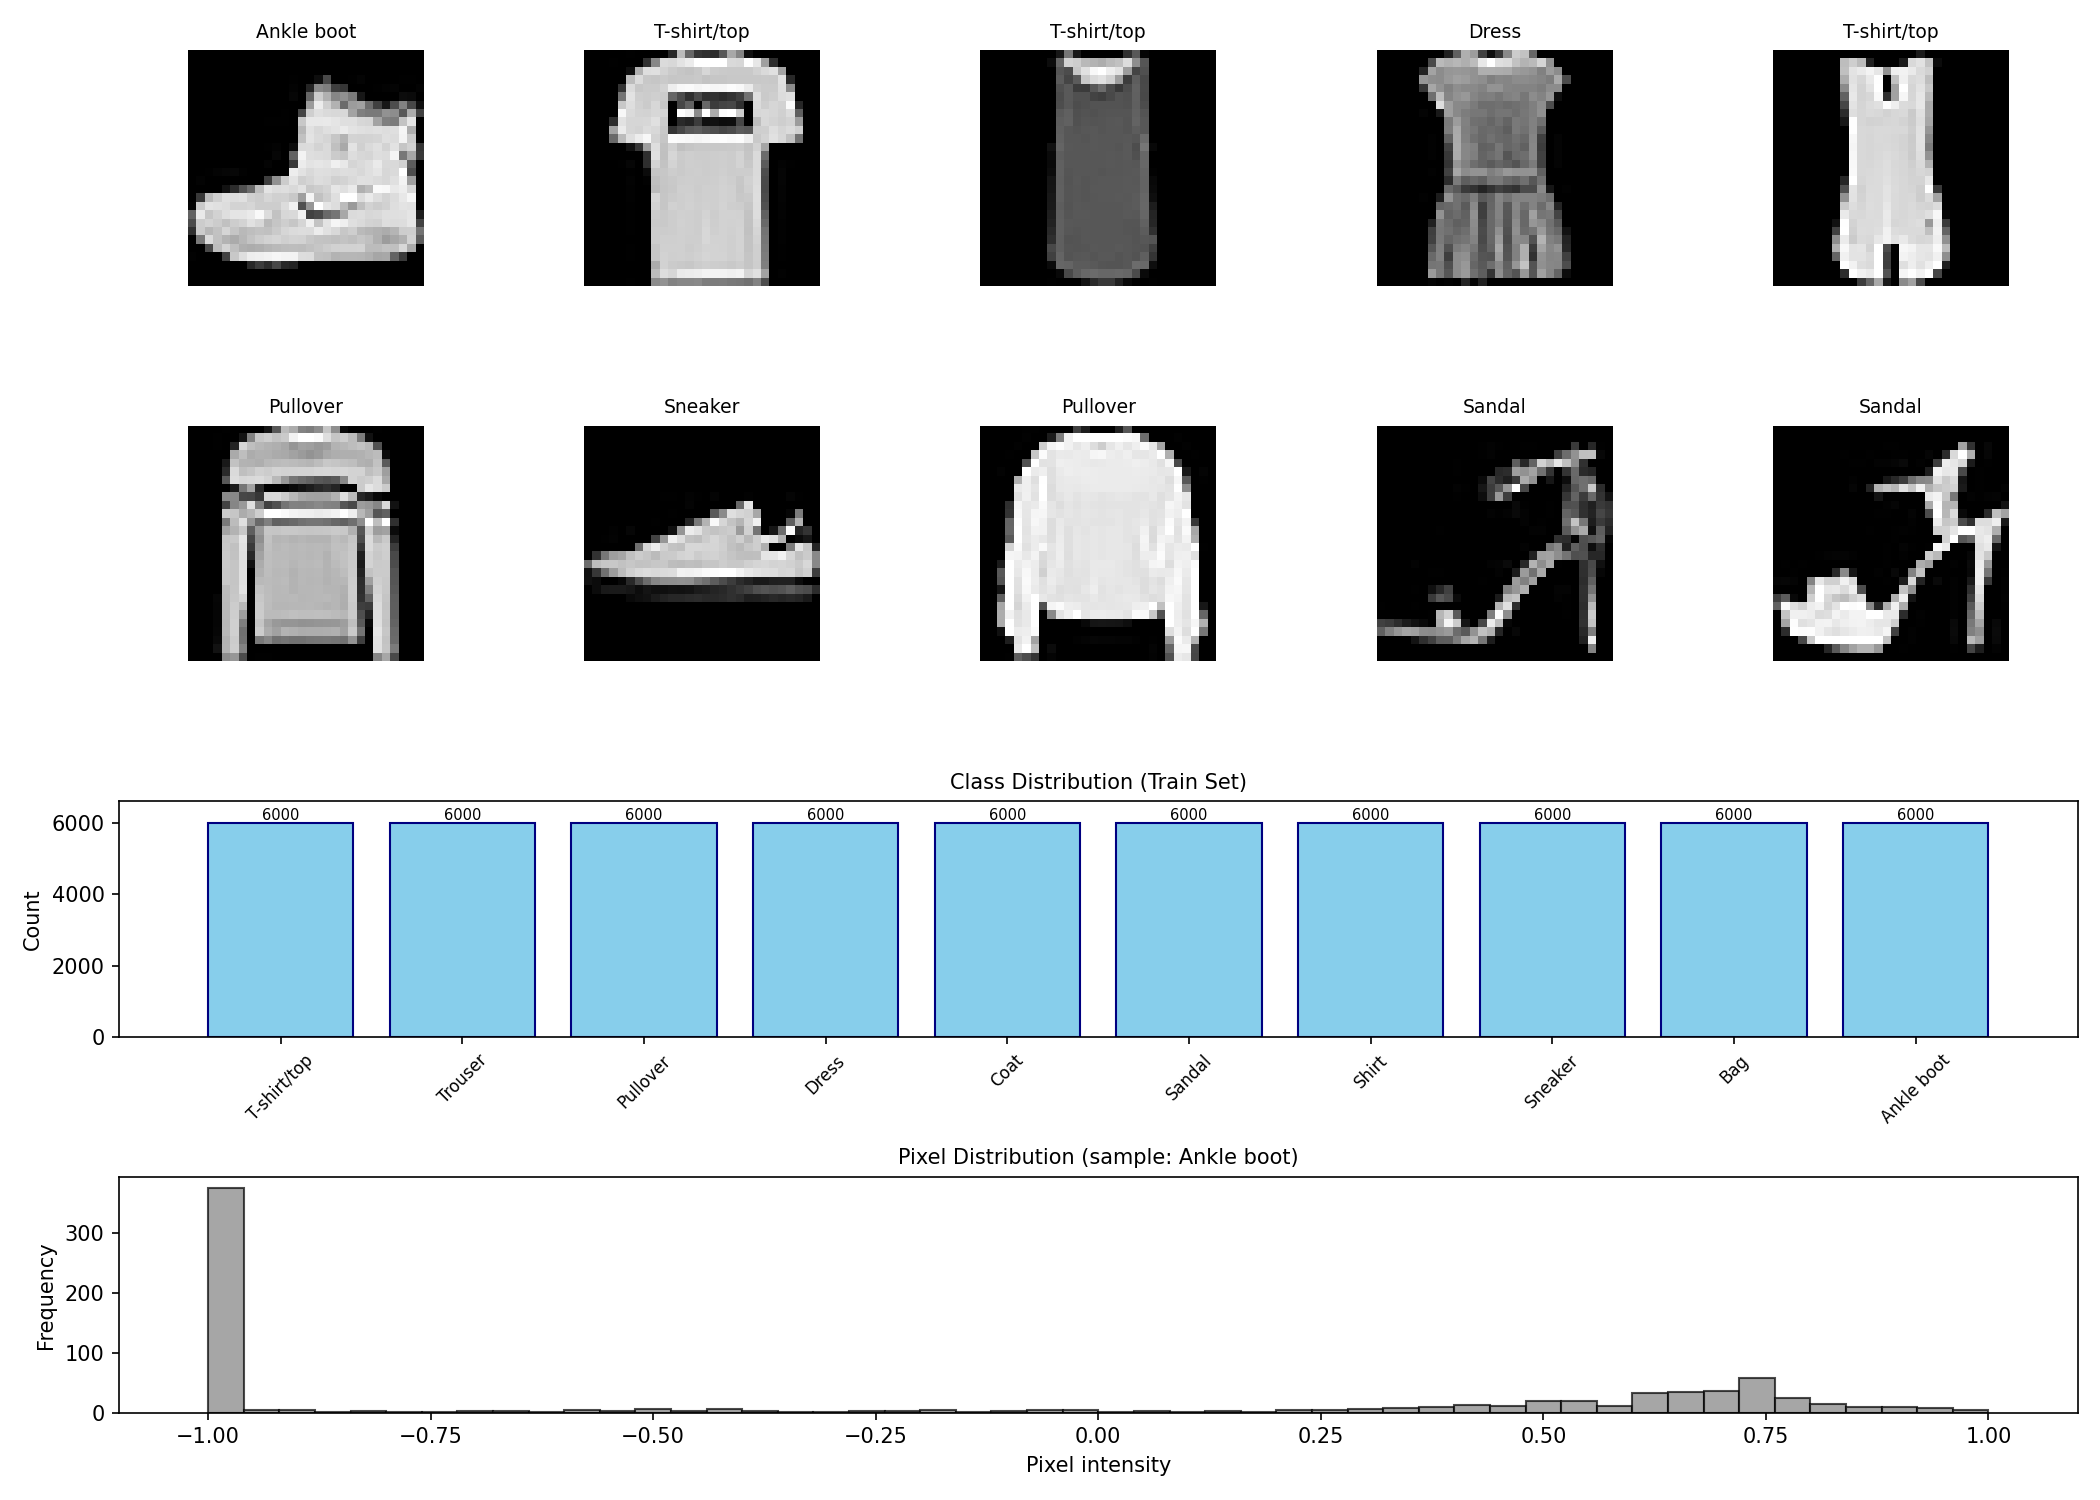
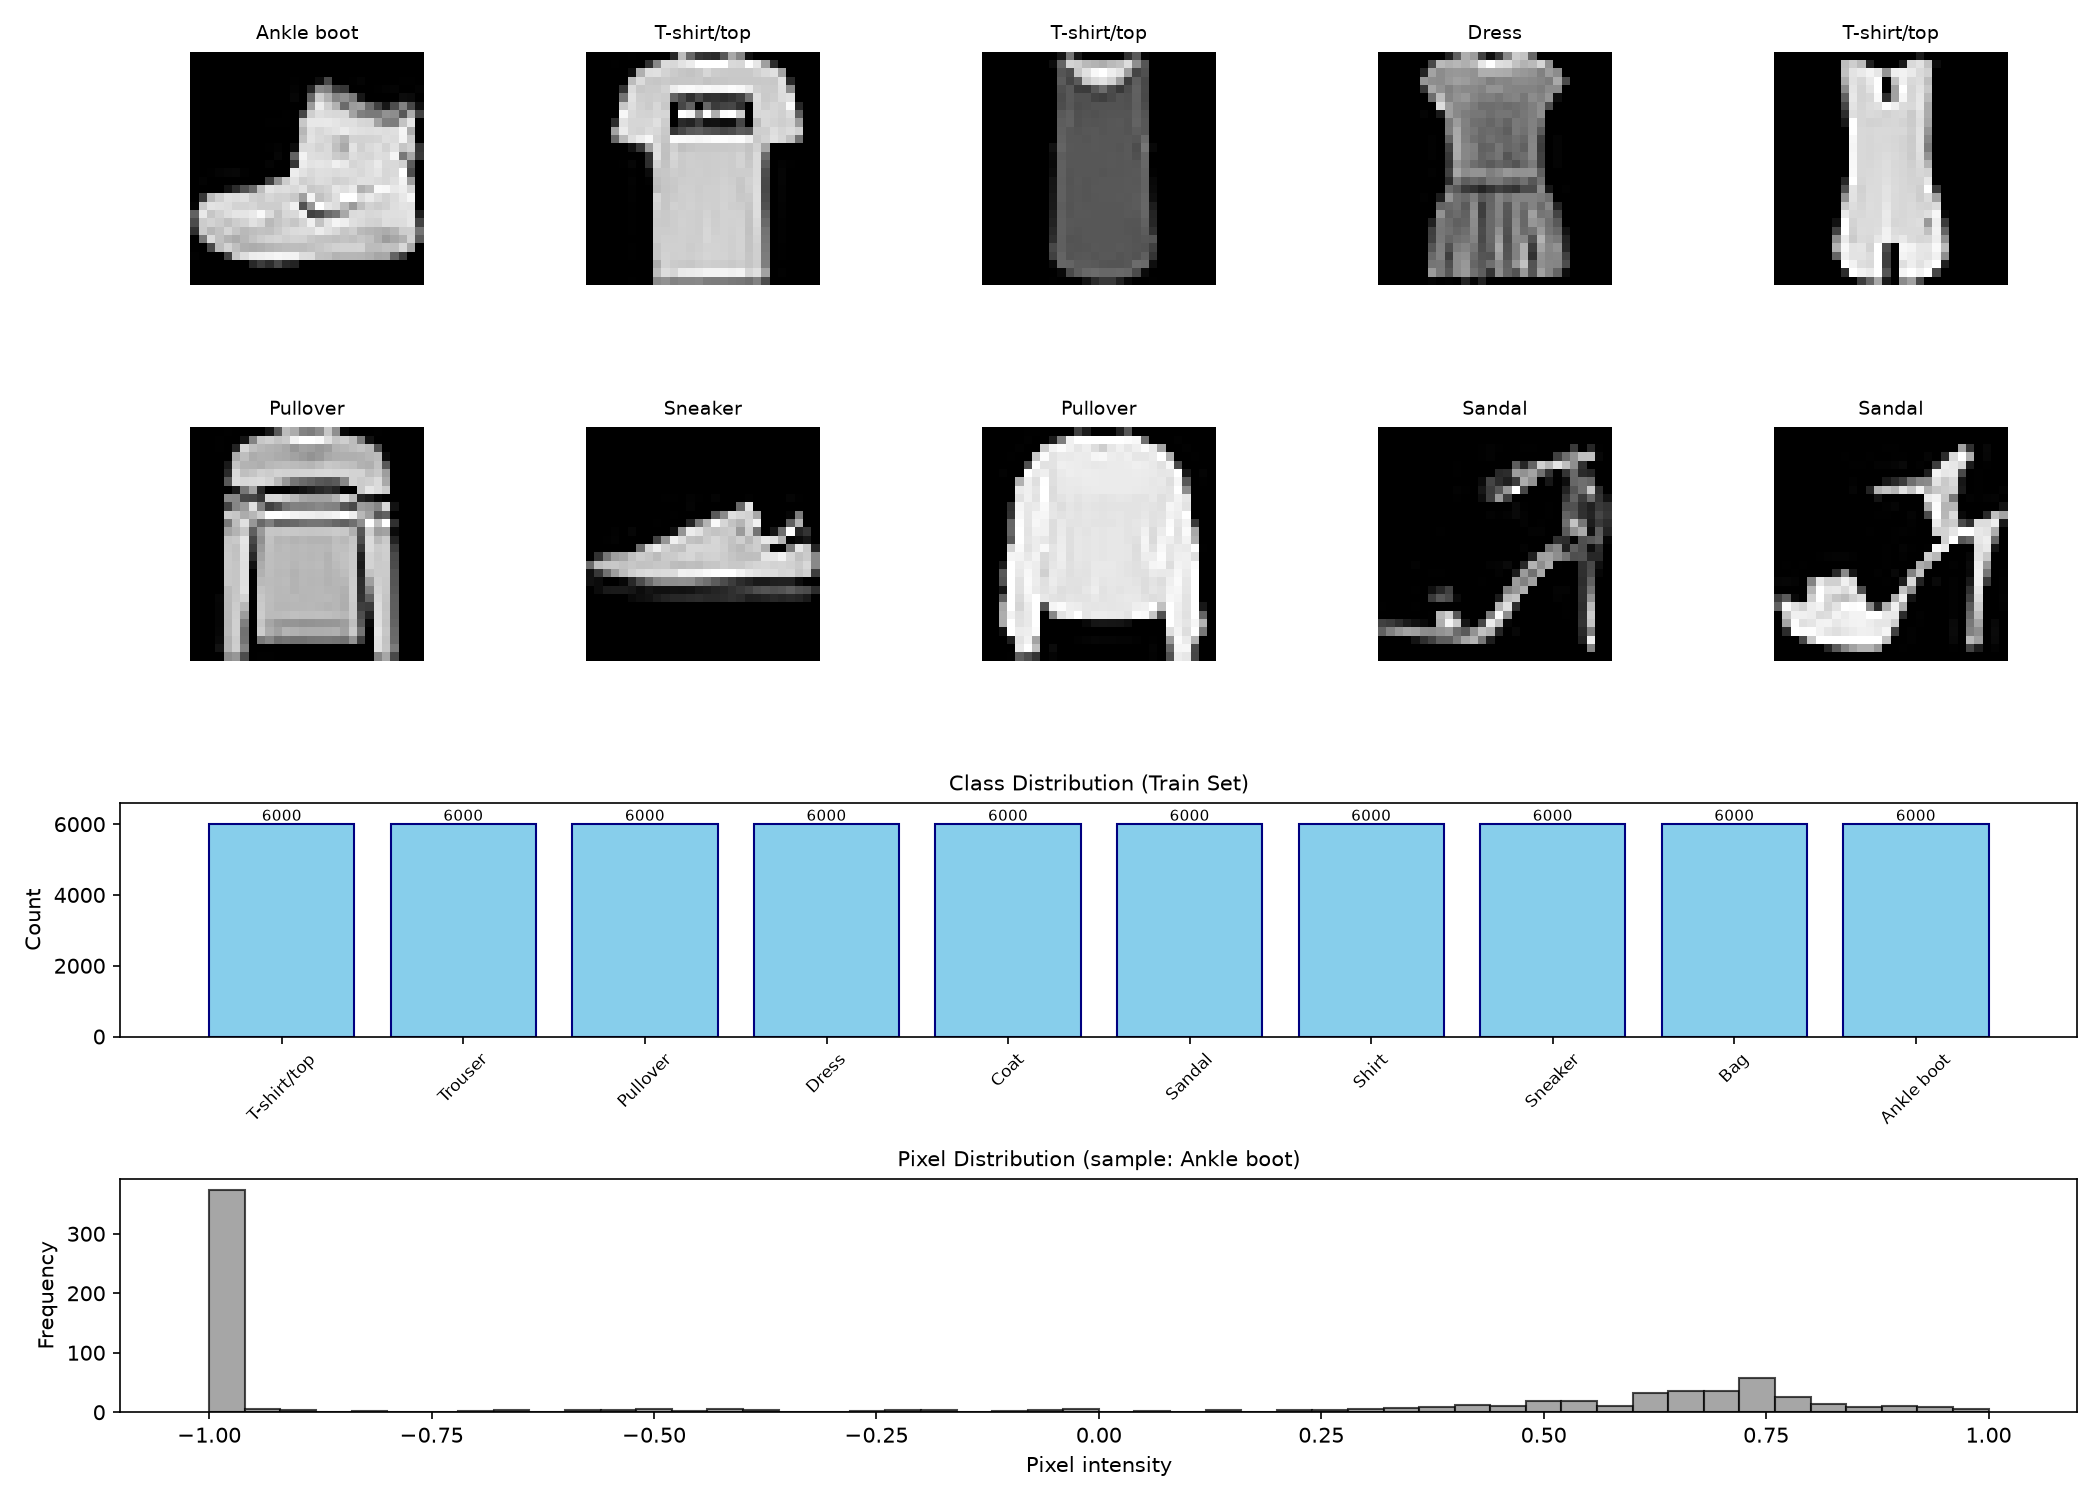
Update dataset exploration output and modify sample image path
- Changed the output message for the number of training samples to "Num samples" for clarity.
- Updated the sample image path in the explore_dataset function to reflect the correct location.
- Noted a binary difference in the sample_fashionmnist.png file.

diff --git a/src/vis_utils.py b/src/vis_utils.py
@@ -7,7 +7,7 @@ from sklearn.metrics import roc_curve, precision_recall_curve
 def explore_dataset(train_dataset, class_names, save_path='../outputs/images/sample_fashionmnist.png'):
     print(f"Number of classes: {len(class_names)}")
     print(f"Classes: {class_names}")
-    print(f"Train samples: {len(train_dataset)}")
+    print(f"Num samples: {len(train_dataset)}")
     print(f"Image shape: {train_dataset[0][0].shape}")
 
     fig = plt.figure(figsize=(14, 10))

diff --git a/README.MD b/README.MD
@@ -12,6 +12,6 @@ source .venv/bin/activate
 2 Install requirements:
 
 ```bash
-pip install torch --index-url https://download.pytorch.org/whl/cu130
+pip install torch torchvision --index-url https://download.pytorch.org/whl/cu130
 pip install -r requirements.txt
 ```
